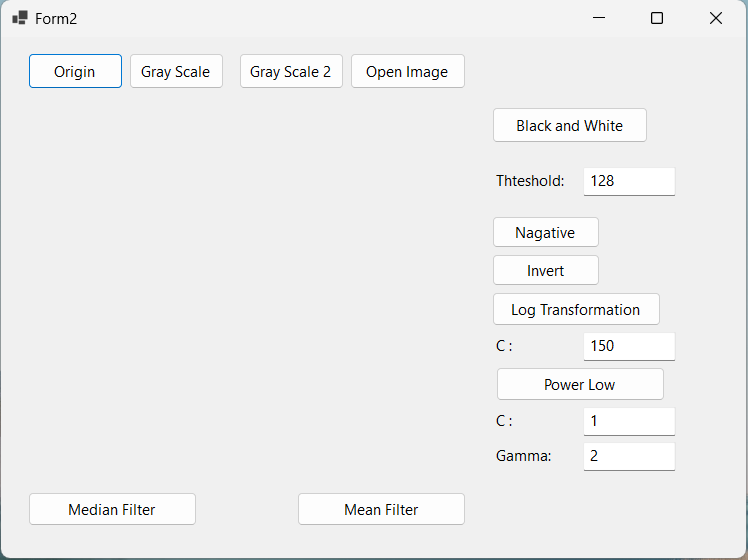
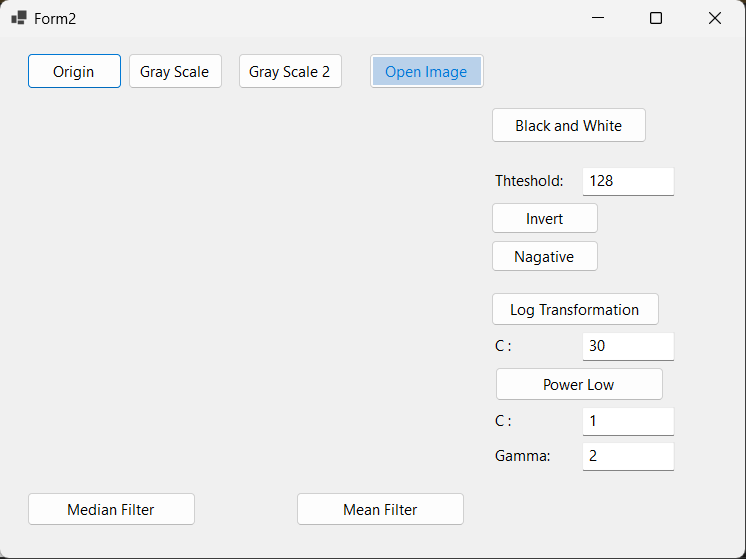
add image

diff --git a/WinFormsApp4/Form2.cs b/WinFormsApp4/Form2.cs
@@ -138,9 +138,16 @@ namespace WinFormsApp4
                 return;
             }
             int.TryParse(txtT.Text, out int thresholdValue);
-            pict_C = ConvertToBlackAndWhite(pict_O, thresholdValue);
-            pictureBox1.Image = pict_C;
 
+            if (thresholdValue < 0 || thresholdValue > 255)
+            {
+                MessageBox.Show("ກະລຸນາລະບຸຄ່າ Thteshold ລະຫວ່າງ 0 - 255");
+            }
+            else
+            {
+                pict_C = ConvertToBlackAndWhite(pict_O, thresholdValue);
+                pictureBox1.Image = pict_C;
+            }
         }
 
         // Nagative
@@ -215,9 +222,18 @@ namespace WinFormsApp4
             {
                 return;
             }
+
             int.TryParse(txtT.Text, out int thresholdValue);
-            pict_C = Invert(pict_O, thresholdValue);
-            pictureBox1.Image = pict_C;
+
+            if (thresholdValue < 0 || thresholdValue > 255)
+            {
+                MessageBox.Show("ກະລຸນາລະບຸຄ່າ Thteshold ລະຫວ່າງ 0 - 255");
+            }
+            else
+            {
+                pict_C = Invert(pict_O, thresholdValue);
+                pictureBox1.Image = pict_C;
+            }
         }
 
 
@@ -258,6 +274,9 @@ namespace WinFormsApp4
                 return;
             }
             int.TryParse(txtc.Text, out int c);
+
+
+
             pict_C = LogTransformation(pict_O, c);
             pictureBox1.Image = pict_C;
 
@@ -296,10 +315,17 @@ namespace WinFormsApp4
             {
                 return;
             }
+
+
             int.TryParse(txtc2.Text, out int c);
             int.TryParse(txtgm.Text, out int gm);
             pict_C = PowerLaw(pict_O, c, gm);
             pictureBox1.Image = pict_C;
+        }
+
+        private void txtT_TextChanged(object sender, EventArgs e)
+        {
+
         }
     }
 }

diff --git a/WinFormsApp4/Form2.Designer.cs b/WinFormsApp4/Form2.Designer.cs
@@ -73,12 +73,14 @@
             // 
             // btnopen
             // 
-            btnopen.Location = new Point(349, 16);
+            btnopen.BackColor = SystemColors.GradientActiveCaption;
+            btnopen.ForeColor = SystemColors.Highlight;
+            btnopen.Location = new Point(369, 16);
             btnopen.Name = "btnopen";
             btnopen.Size = new Size(116, 36);
             btnopen.TabIndex = 3;
             btnopen.Text = "Open Image";
-            btnopen.UseVisualStyleBackColor = true;
+            btnopen.UseVisualStyleBackColor = false;
             btnopen.Click += btnopen_Click;
             // 
             // pictureBox1
@@ -108,10 +110,11 @@
             txtT.Size = new Size(93, 29);
             txtT.TabIndex = 7;
             txtT.Text = "128";
+            txtT.TextChanged += txtT_TextChanged;
             // 
             // btnnsgative
             // 
-            btnnsgative.Location = new Point(491, 179);
+            btnnsgative.Location = new Point(491, 203);
             btnnsgative.Name = "btnnsgative";
             btnnsgative.Size = new Size(108, 32);
             btnnsgative.TabIndex = 8;
@@ -121,7 +124,7 @@
             // 
             // button2
             // 
-            button2.Location = new Point(491, 217);
+            button2.Location = new Point(491, 165);
             button2.Name = "button2";
             button2.Size = new Size(108, 32);
             button2.TabIndex = 9;
@@ -146,7 +149,7 @@
             txtc.Name = "txtc";
             txtc.Size = new Size(93, 29);
             txtc.TabIndex = 12;
-            txtc.Text = "150";
+            txtc.Text = "30";
             // 
             // label2
             // 
